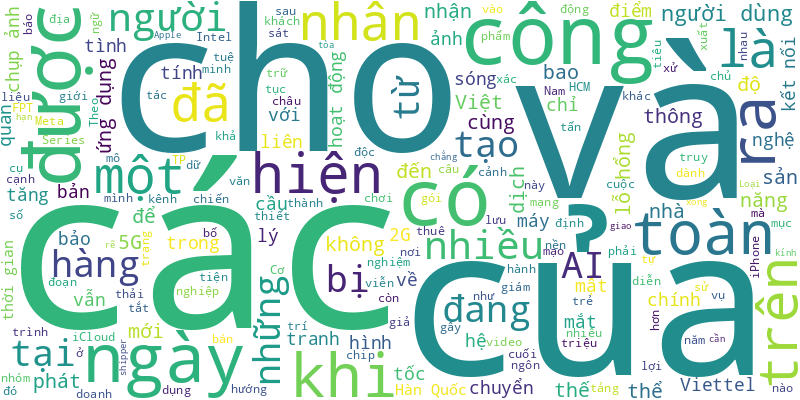
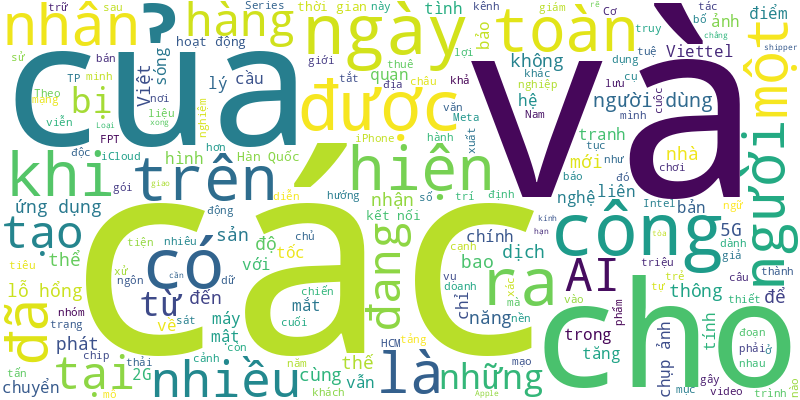
🍀 = 40%

diff --git a/README.md b/README.md
@@ -1,8 +1,23 @@
 # Tuoi Tre RSS 
 
 ## Giáo dục 
+- 'Từ năm học lớp 4, đến giờ 17 tuổi, con vẫn mắc màn cho tôi mỗi tối. Tôi biết ơn thầy Huy vì con tôi đã được gieo vào tâm hồn những điều tốt đẹp'.
+- Tối 18-11, Thành Đoàn TP.HCM đã tuyên dương 457 nhà giáo trẻ đạt giải thưởng "Nhà giáo trẻ tiêu biểu" TP.HCM năm 2024.
+- Phó bí thư Thường trực Thành ủy TP.HCM Nguyễn Hồ Hải đã đến thăm, chúc mừng gia đình cố GS.TS Nguyễn Thiện Thành nhân Ngày Nhà giáo Việt Nam 20-11.
+- Công việc của một giảng viên không chỉ là truyền đạt kiến thức mà còn tạo dựng những tác động tích cực đối với sự phát triển của thế hệ trẻ.
+- Khóa học trang bị cho học viên kỹ năng và kiến thức về thiết kế nghiên cứu khoa học, cách soạn và công bố bài báo khoa học trên các tập san quốc tế do GS Nguyễn Văn Tuấn và TS Trần Sơn Thạch (Úc) hướng dẫn.
+- Hiện nay giáo viên đang chịu nhiều áp lực về tài chính, các hoạt động chuyên môn, nhưng áp lực lớn nhất đến từ phụ huynh học sinh.
+- Tiết học của cô Oanh nhen nhóm cho học sinh đam mê tìm tòi, khơi gợi các em hướng khởi nghiệp ngay trên quê nhà.
+- Báo Tuổi Trẻ và Quỹ hỗ trợ xây dựng môi trường xanh Việt Nam sẽ gửi tặng học bổng cho 100 học sinh khó khăn tại huyện Bát Xát (Lào Cai).
+- Nhiều phụ huynh Trường THCS Nguyễn Chánh (Quảng Ngãi) phản ảnh 960 học sinh khám trong 450 phút (chưa đến 30 giây/học sinh)!
+- Năm 2024, ngành giáo dục và đào tạo tỉnh Thanh Hóa đã có nhiều chuyển biến mới, tạo đà cho công tác dạy và học năm học 2024-2025.
+- Trong số 50 nhà giáo nhận giải thưởng Võ Trường Toản năm nay, có 2 người là trưởng phòng giáo dục và đào tạo.
+- Đại học Đà Nẵng sẽ có thêm trường đại học quốc tế trên cơ sở phát triển từ Viện Nghiên cứu và Đào tạo Việt - Anh.
+- Ngày 18-11, các trường học tại New Delhi của Ấn Độ đã chuyển sang học trực tuyến vì tình trạng ô nhiễm không khí ngày càng trầm trọng.
+- Tổng Bí thư Tô Lâm chỉ rõ một số hạn chế của giáo dục, đào tạo kéo dài nhiều năm chưa giải quyết dứt điểm.
+- Quỹ VinFuture chính thức công bố lịch trình Tuần lễ Khoa học công nghệ và lễ trao giải VinFuture 2024 diễn ra từ ngày 4 đến 7-12 tại Hà Nội.
 - Chuyện thầy hiệu trưởng xin đổi hoa 20-11 thành học cụ là một cách mời gọi các nhà quản lý, thầy cô giáo hướng đến tinh thần vì học sinh.
-- Nhiều người gọi thầy giáo Phùng Quán là "chiến binh" vì gần như mặt trận nào thầy cũng lăn xả, nhiệt huyết vì cộng đồng, từ chống dịch COVID-19 đến thiện nguyện, tư vấn tuyển sinh, đoàn thể...
+- Nhiều người gọi thầy giáo Phùng Quán là 'chiến binh' vì gần như mặt trận nào thầy cũng lăn xả, nhiệt huyết vì cộng đồng, từ chống dịch COVID-19 đến thiện nguyện, tư vấn tuyển sinh, đoàn thể...
 - Ngoài câu chuyện tình yêu đôi lứa, tình yêu biển đảo là động lực lớn thôi thúc cô giáo trẻ quyết tâm ra Thổ Châu dạy học.
 - Giữa những xôn xao thế sự lớn lao và nhỏ nhặt, tháng 11 luôn dung chứa những niềm xôn xao khác của ký ức và lòng biết ơn khi gần đến 20-11 - Ngày Nhà giáo Việt Nam.
 - Họ là những người dạy nghề thầm lặng cho người khuyết tật có được cái nghề kiếm sống - ước mơ lớn nhất trong đời của người bất hạnh.
@@ -16,53 +31,38 @@
 - Dự án 'Khát vọng thống nhất' thu hút 8.600 học sinh từ 8 trường THPT thuộc cụm chuyên môn 1 tại TP.HCM tham gia với hơn 1.000 sản phẩm độc đáo, mang đậm dấu ấn lịch sử.
 - AI, ChatGPT mở ra nhiều cơ hội và thách thức mới trong lĩnh vực nghiên cứu và giáo dục, đặc biệt là trong giảng dạy ngôn ngữ.
 - Trong 30 năm qua, Đại học Đà Nẵng đã đào tạo cho đất nước hàng vạn nhân lực có trình độ cao ở nhiều lĩnh vực, góp phần quan trọng vào sự nghiệp xây dựng, phát triển đất nước.
-- 'Vì học sinh và người dân' là lựa chọn của những người thầy giữa cơn cuồng nộ của trời đất khi bão Yagi ập đến.
-- Một bà lão tóc bạc trắng, lưng khòm, tay chân run run cứ gần tan trường đều đứng đợi cô cháu gái mù đang là sinh viên để nắm tay đưa cháu về khu trọ.
-- Trước khi bị hủy văn bằng cử nhân văn học, bà Đào Thị Bích Thủy từng được phó chủ tịch hội đồng trường Trường đại học Kinh Bắc ký quyết định tiếp nhận và bổ nhiệm giữ chức vụ phó hiệu trưởng, kiêm chánh văn phòng của trường.
-- Thủ tướng lưu ý hoàn thiện cơ chế chính sách tuyển dụng, đãi ngộ để giáo viên được thụ hưởng mức lương tương xứng với công sức của mình.
-- Đại sứ New Zealand tại Việt Nam Caroline Beresford ví von giáo dục như một 'viên ngọc trên chiếc vương miện' của mối quan hệ hợp tác giữa hai nước.
-- Trường đại học Công Thương TP.HCM vừa công bố định hướng tuyển sinh đại học chính quy năm 2025, với nhiều thay đổi bất ngờ.
-- Chính phủ vừa ban hành quyết định về việc chuyển Trường đại học Kinh tế quốc dân thành Đại học Kinh tế quốc dân.
-- Một sinh viên sáng chế sản phẩm sáng tạo gặp khó khi tìm đường đưa sản phẩm ra thị trường Việt Nam. Nhưng cũng với nghiên cứu này, sinh viên đã nhận được học bổng du học của một trường nước ngoài.
-- Bộ Giáo dục và Đào tạo khẳng định không giao Trung tâm khảo thí quốc gia và đánh giá chất lượng giáo dục xây dựng bài thi V-SAT.
-- Nhiều năm đóng góp cho hoạt động xã hội, giải thưởng khoa học… GS.TS Lê Ngọc Thạch nói nhẹ bâng: 'Tôi làm bổn phận một công dân. Tôi học thầy tôi'.
-- Phó thủ tướng Chính phủ Lê Thành Long chỉ đạo Bộ Giáo dục và Đào tạo do nhận thấy những lo lắng của phụ huynh.
-- Đây là nghiên cứu khoa học đầu tiên ở cấp độ sinh viên dùng công nghệ đo điện não để hỗ trợ tâm lý cho người có biểu hiện trầm cảm.
-- Hiện tại mô hình giảng dạy AI và mã hóa đã được thử nghiệm tại một số trường học ở thủ đô Jakarta, Indonesia.
-- 'Nhiệm vụ giáo dục ở vùng sâu, vùng xa và những trường chuyên biệt còn nhiều thử thách, thiếu thốn, bất cập, nên cần hơn hết những nhà giáo tiên phong, lĩnh xướng nhận nhiệm vụ đó', Thứ trưởng Nguyễn Thị Kim Chi chia sẻ với các nhà giáo.
-- Cuộc thi Vô địch quốc gia STEM, AI và Robotics 2024 (Vietnam STEM AI Robotics - VSAR) dành cho học sinh phổ thông với chủ đề "Nông nghiệp xanh - Phát triển bền vững" khai mạc chiều 14-11, do báo Tiền Phong tổ chức.
 ![Edu](Edu.png)
 ## Thời Sự 
-- Ông Thích Minh Tuệ thông báo sẽ tạm dừng khất thực do thời gian qua có nhiều người tìm đến, tụ tập đông người gây mất an ninh trật tự.
-- Ông Trương Tuấn Anh vừa được bổ nhiệm làm tổng giám đốc Công ty Đầu tư tài chính nhà nước TP.HCM (HFIC).
-- Để tránh nguy cơ lừa đảo, người lao động cần tìm hiểu thông tin doanh nghiệp đã được cấp phép hay chưa.
-- Dự báo trong hai ngày tới, bão số 9 (Man-yi) sẽ tiếp tục suy yếu do tương tác với không khí lạnh nên có thể tan trên biển và ít có khả năng bão đổ bộ vào đất liền Việt Nam.
-- Lãnh đạo Việt Nam và Brazil đã nâng cấp quan hệ lên Đối tác chiến lược, mở ra giai đoạn phát triển mới trong quan hệ hai nước.
-- Một số tin tức đáng chú ý: Lý do vốn FDI vào Việt Nam tăng trưởng chậm dần; 'Cơn mưa' tiền mặt cổ tức tuần này; HUD có chủ tịch mới; Chủ tịch Digiworld bán bớt vốn ở Viettel Construction...
-- Hôm nay 18-11, không khí lạnh sẽ ảnh hưởng tới Bắc Bộ, Trung Bộ thời tiết có mưa, Nam Bộ ngày nắng.
-- Để khắc phục khó khăn là khoảng cách địa lý hai nước, Thủ tướng Phạm Minh Chính cho biết Việt Nam đang phát triển mạnh đội tàu biển, xây dựng các cảng trung chuyển lớn để giảm chi phí vận tải, logistics.
-- Thủ tướng Phạm Minh Chính và Phu nhân cùng các đại biểu Việt Nam, Brazil đã vỗ tay, hòa theo lời của bài hát 'Như có Bác Hồ trong ngày vui đại thắng' tại lễ khánh thành biển kỷ niệm 112 năm ngày Người đến Rio de Janeiro.
-- Tối 17-11, sau khi đổ bộ vào đảo Luzon (Philippines), siêu bão Man-yi đã suy yếu xuống cấp 13 (134-149km/h), giật cấp 16 và đi vào Biển Đông, trở thành cơn bão số 9 trong năm nay.
-- 'Việc xây dựng khối đại đoàn kết phải đi lên từ những việc nhỏ nhất mà sát với điều kiện cuộc sống của người dân'.
-- Nhân dịp kỷ niệm 42 năm Ngày Nhà giáo Việt Nam, nhiều siêu thị, điểm mua sắm, gian hàng sách... tung ra chương trình giảm giá, sự kiện tri ân, tôn vinh các thầy cô giáo.
-- Phó thủ tướng Trần Hồng Hà gọi tai nạn giao thông là kẻ thù. Đồng thời ông yêu cầu cần có các chế tài đủ mạnh để xử lý nghiêm, không khoan nhượng, kể cả áp dụng các biện pháp hình sự để răn đe các hành vi vi phạm.
-- Bí thư Thành ủy TP.HCM Nguyễn Văn Nên cho rằng hành động treo cờ của các nhân vật rất đáng trân trọng, bởi không vì quyền lợi cá nhân mà vì công lý, vì ủng hộ cho cuộc đấu tranh của nhân dân Việt Nam.
-- Công an tỉnh Quảng Bình đã quyết định khởi tố, bắt tạm giam hàng loạt cán bộ lãnh đạo ở các huyện thị, thành phố để điều tra những liên quan đến đại án cây xanh.
-- Để không vỡ mộng, bị lừa đảo khi có nguyện vọng đi xuất khẩu lao động, cần phải kiểm tra thật kỹ thông tin doanh nghiệp trước khi đóng tiền. Trong trường hợp phát hiện bị lừa đảo thì báo ngay cơ quan chức năng.
-- Cầu Vàm Cái Sứt nằm trên hương lộ 2 được thi công hơn 4 năm qua, nhưng đến nay đường vẫn chưa xong để kết nối vào cao tốc.
-- 100 cán bộ, chiến sĩ công an chia thành 12 tổ đồng loạt khám xét, bắt giữ 12 nghi phạm trong đường dây cá độ bóng đá quy mô hơn 2.000 tỉ đồng.
-- TP.HCM sẽ quyết tâm dồn sức để thực hiện những chỉ tiêu, nhiệm vụ của TP đề ra cho năm 2024. Trong đó xử lý nghiêm các tồn đọng để tăng tốc bước vào kỷ nguyên mới.
-- Ngán ngẩm với tài xế ô tô dừng xe tại điểm khẩn cấp cao tốc Vĩnh Hảo - Phan Thiết, đoạn qua huyện Hàm Thuận Nam, tỉnh Bình Thuận để gia đình… ăn tối.
-- Trong chiều đến tối nay 17-11, siêu bão Man-yi đổ bộ vào đảo Luzon (Philippines) với gió mạnh cấp 16 (184-201km/h), giật trên cấp 17 (trên 220km/h).
-- Các trò chơi dân gian được tái hiện ở thành phố tạo nên trận cười nắc nẻ cho người tham gia "Ngày hội Đại đoàn kết toàn dân tộc".
-- Trong khi lấy mẫu giám định ADN ở Nghĩa trang liệt sĩ Quốc gia Đường 9, lực lượng làm nhiệm vụ phát hiện cây viết khắc chữ "XUÂN ĐÀI" hoặc "XUÂN LÀI" và hình cây dừa, đôi chim bồ câu…
-- Tổng Bí thư Tô Lâm cùng các thành viên trong đoàn công tác Trung ương và lãnh đạo tỉnh đến dự Ngày hội Đại đoàn kết toàn dân tộc tại xã Đất Mũi, huyện Ngọc Hiển, Cà Mau.
-- Từ 1-7-2025, nhiều quy định mới về điều kiện hưởng lương hưu, thời gian đóng bảo hiểm xã hội... có hiệu lực.
-- Bãi xe bệnh viện thu phí cao hơn quy định; Đề xuất đóng nút giao thông Nguyễn Văn Linh - Phạm Hùng để giảm kẹt xe... là thông tin bạn đọc phản ánh tuần qua.
-- Dự ngày hội đoàn kết dân tộc và tổng kết đề án trao 1.200 căn nhà cho người nghèo, Bộ trưởng Bộ Công an Lương Tam Quang nói về sự đoàn kết, tương thân tương ái để không ai bị bỏ lại phía sau.
-- Từ 1-1-2025, tỉnh Thừa Thiên Huế sẽ không còn miễn phí vé tham quan di tích thuộc Quần thể di tích cố đô Huế vào 3 ngày Tết Nguyên đán như thường niên.
-- Sáng 17-11, Ban An toàn giao thông TP.HCM phối hợp các đơn vị tổ chức lễ tưởng niệm các nạn nhân tử vong do tai nạn giao thông.
-- Tuần này miền Bắc sẽ đón đợt không khí lạnh, miền Trung mưa rào đến mưa to, miền Nam ngày nắng, có lúc mưa rào.
+- TP.HCM có khoảng 1.123 cây cầu. Trong đó 17 cây cầu sắt đã tồn tại hơn 50 năm, đang và đã được rà soát, thay thế để đảm bảo an toàn giao thông và phát triển hạ tầng đô thị.
+- Vụ án đau lòng này xảy ra bảy tháng trước từng được dư luận rất quan tâm, hôm nay tòa án đưa bị cáo mới 16 tuổi ra xét xử vì đánh nam sinh lớp 8 chấn thương sọ não dẫn đến tử vong.
+- Dự báo bão số 9 (Man-yi) sẽ tiếp tục suy yếu nhanh, có thể tan trên vùng biển ngoài khơi các tỉnh miền Trung nên ít có khả năng bão đổ bộ vào đất liền Việt Nam.
+- Một số tin tức đáng chú ý: Nhiều tài xế ở TP.HCM phạm luật vì 'không thấy cảnh sát giao thông'; Người dân bắt được cá sấu 100kg; Nguyên nhân bệnh sởi tăng 'nóng' ở Đồng Nai...
+- Khu nhà kho xưởng ở Định Công, quận Hoàng Mai (Hà Nội) bốc cháy vào khuya 18-11. Nhân chứng cho hay ngọn lửa bùng lên trên diện tích rộng hàng trăm mét vuông, cột khói đen bốc lên ngùn ngụt.
+- Hôm nay 19-11, thời tiết Bắc Bộ và Nam Bộ nắng gián đoạn, Bắc Bộ lạnh đến rét, Trung Bộ mưa do nhiễu động gió kết hợp không khí lạnh.
+- Công an Đà Nẵng đã bắt ông Nguyễn Quang Hoàng (36 tuổi), tổng giám đốc Công ty GFDI, để điều tra hành vi lừa đảo chiếm đoạt tài sản.
+- Chủ tịch Quốc hội Trần Thanh Mẫn làm trưởng Ban Chỉ đạo tổng kết thực hiện nghị quyết 18 về sắp xếp bộ máy tinh gọn, hiệu quả các cơ quan Quốc hội.
+- Phó trưởng Đoàn đại biểu Quốc hội tỉnh Hưng Yên Nguyễn Đại Thắng được bổ nhiệm giữ chức phó trưởng Ban Công tác đại biểu thuộc Ủy ban Thường vụ Quốc hội.
+- Theo Tổng Bí thư Tô Lâm, mục tiêu cao nhất công tác dân vận trong giai đoạn mới là vì dân, giải quyết nhu cầu, nguyện vọng chính đáng của nhân dân.
+- Trước tình trạng nhiều xe ben chở đất, đá chạy giờ cấm, đường cấm vùng ven TP.HCM mà Tuổi Trẻ Online phản ánh, nhiều bạn đọc cho rằng những xe này quá lộng hành.
+- Đây là chuyến thăm chính thức Malaysia đầu tiên của Tổng Bí thư Tô Lâm và Phu nhân, không lâu sau khi hai nước kỷ niệm 9 năm thiết lập Đối tác chiến lược.
+- Thủ tướng Chính phủ Phạm Minh Chính vừa ký quyết định bổ nhiệm lại ông Đỗ Xuân Tuyên giữ chức thứ trưởng Bộ Y tế.
+- Phó bí thư Thường trực Thành ủy TP.HCM Nguyễn Hồ Hải đã đến thăm, chúc mừng gia đình cố GS.TS Nguyễn Thiện Thành nhân Ngày Nhà giáo Việt Nam 20-11.
+- Công an tỉnh Bình Thuận cho biết đã bắt được nghi can trong vụ giết người tại đường Hàn Thuyên, phường Lạc Đạo, TP Phan Thiết.
+- Đến 19h tối nay, lực lượng chức năng đã tìm được 1 thi thể nữ sinh trong số 5 em học sinh lớp 8 bị mất tích.
+- Việc lập thêm ban quản lý dự án là một trong những giải pháp đẩy nhanh tiến độ thi công và giải ngân vốn đầu tư công.
+- Khi tận mắt chứng kiến hậu quả chiến tranh vẫn còn hiện hữu tại Việt Nam, nhóm người treo cờ Việt Nam tại nhà thờ Đức Bà Paris năm 1969 ấy quyết tâm tiếp tục hành trình vì công lý.
+- Chủ tịch tỉnh Hà Giang Nguyễn Văn Sơn bị kỷ luật hình thức cảnh cáo do có những vi phạm, khuyết điểm trong công tác và đã bị thi hành kỷ luật Đảng.
+- 260 cán bộ quy hoạch chức danh diện Ban Thường vụ Tỉnh ủy quản lý và tham gia quản lý sẽ được bồi dưỡng, cập nhật kiến thức mới tại lớp bồi dưỡng do Tỉnh ủy Quảng Ngãi phối hợp Đại học Quốc gia Hà Nội tổ chức.
+- UBND tỉnh Thanh Hóa đã xử phạt vi phạm hành chính Công ty TNHH thương mại Song Dương ở huyện Như Xuân, vì để xảy ra vi phạm về môi trường tại trang trại chăn nuôi heo của công ty.
+- Chiều 18-11, tại kỳ họp thứ 24, Hội đồng nhân dân tỉnh Nghệ An đã bầu ông Hoàng Nghĩa Hiếu - phó bí thư thường trực Tỉnh ủy - giữ chức chủ tịch Hội đồng nhân dân tỉnh.
+- Ủy ban Kiểm tra Trung ương đề nghị kỷ luật nguyên bí thư Tỉnh ủy Vĩnh Phúc Phạm Văn Vọng và một số nguyên lãnh đạo tỉnh này do liên quan vụ Phúc Sơn.
+- Hiện nay giáo viên đang chịu nhiều áp lực về tài chính, các hoạt động chuyên môn, nhưng áp lực lớn nhất đến từ phụ huynh học sinh.
+- Nhiều phụ huynh Trường THCS Nguyễn Chánh (Quảng Ngãi) phản ảnh 960 học sinh khám trong 450 phút (chưa đến 30 giây/học sinh)!
+- Ngày 18-11, Bệnh viện Chợ Rẫy nhận ít nhất 5 phụ huynh đến bệnh viện tìm con vì nhận cuộc gọi của người lừa đảo yêu cầu chuyển tiền gấp.
+- Ban chỉ đạo cải cách hành chính, chuyển đổi số và đề án 06 TP.HCM sẽ do chủ tịch UBND TP.HCM làm trưởng ban chỉ đạo.
+- Hạn chế xe máy là cần thiết, nhưng cũng cần phải chia theo từng khu vực và theo lộ trình.
+- Quán nhậu trên đường Chương Dương - ven sông Hàn (Đà Nẵng) mở nhạc chói tai khiến người dân địa phương nhiều lần bức xúc, phản ánh.
+- Ông Lê Văn Thuận đã thực hiện hành vi “làm giả con dấu, tài liệu của cơ quan, tổ chức” sau đó bỏ trốn.
 ![New](News.png)
 ## Nhịp sống số 
 - Loại kính mới có thể chỉ cho shipper chính xác nơi cần đến trong tòa nhà, chẳng hạn như các hướng rẽ, và chụp ảnh các gói hàng sau khi giao xong.
